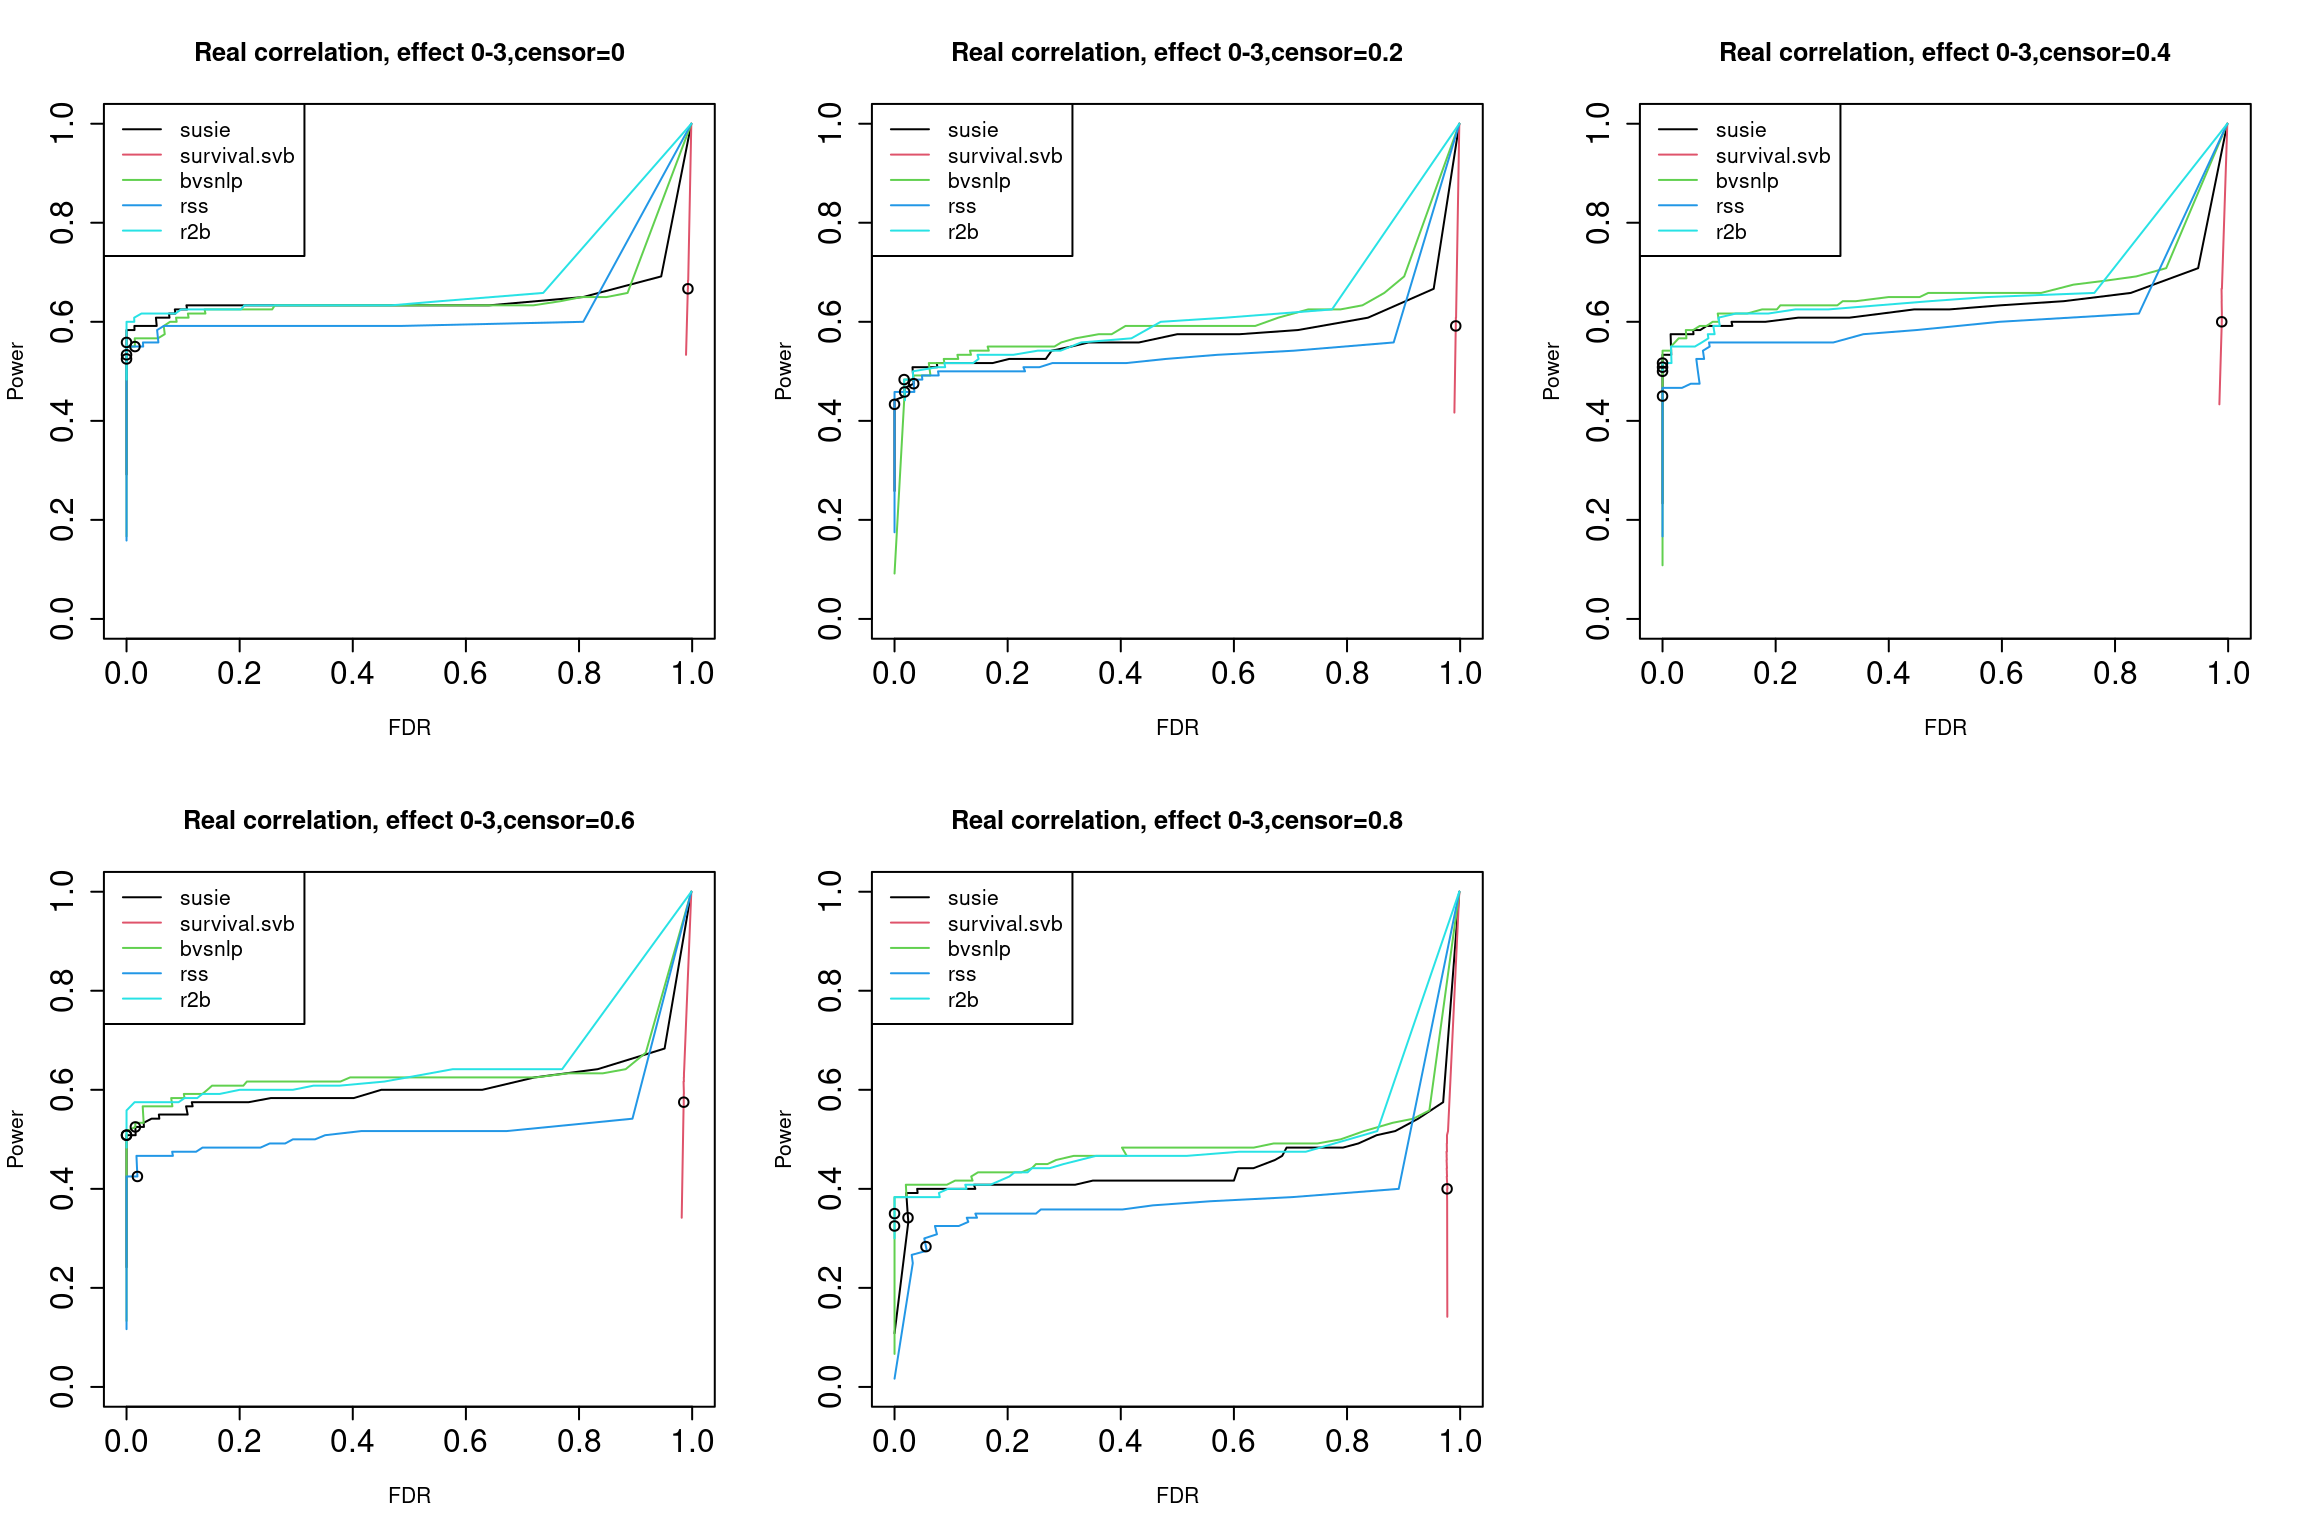
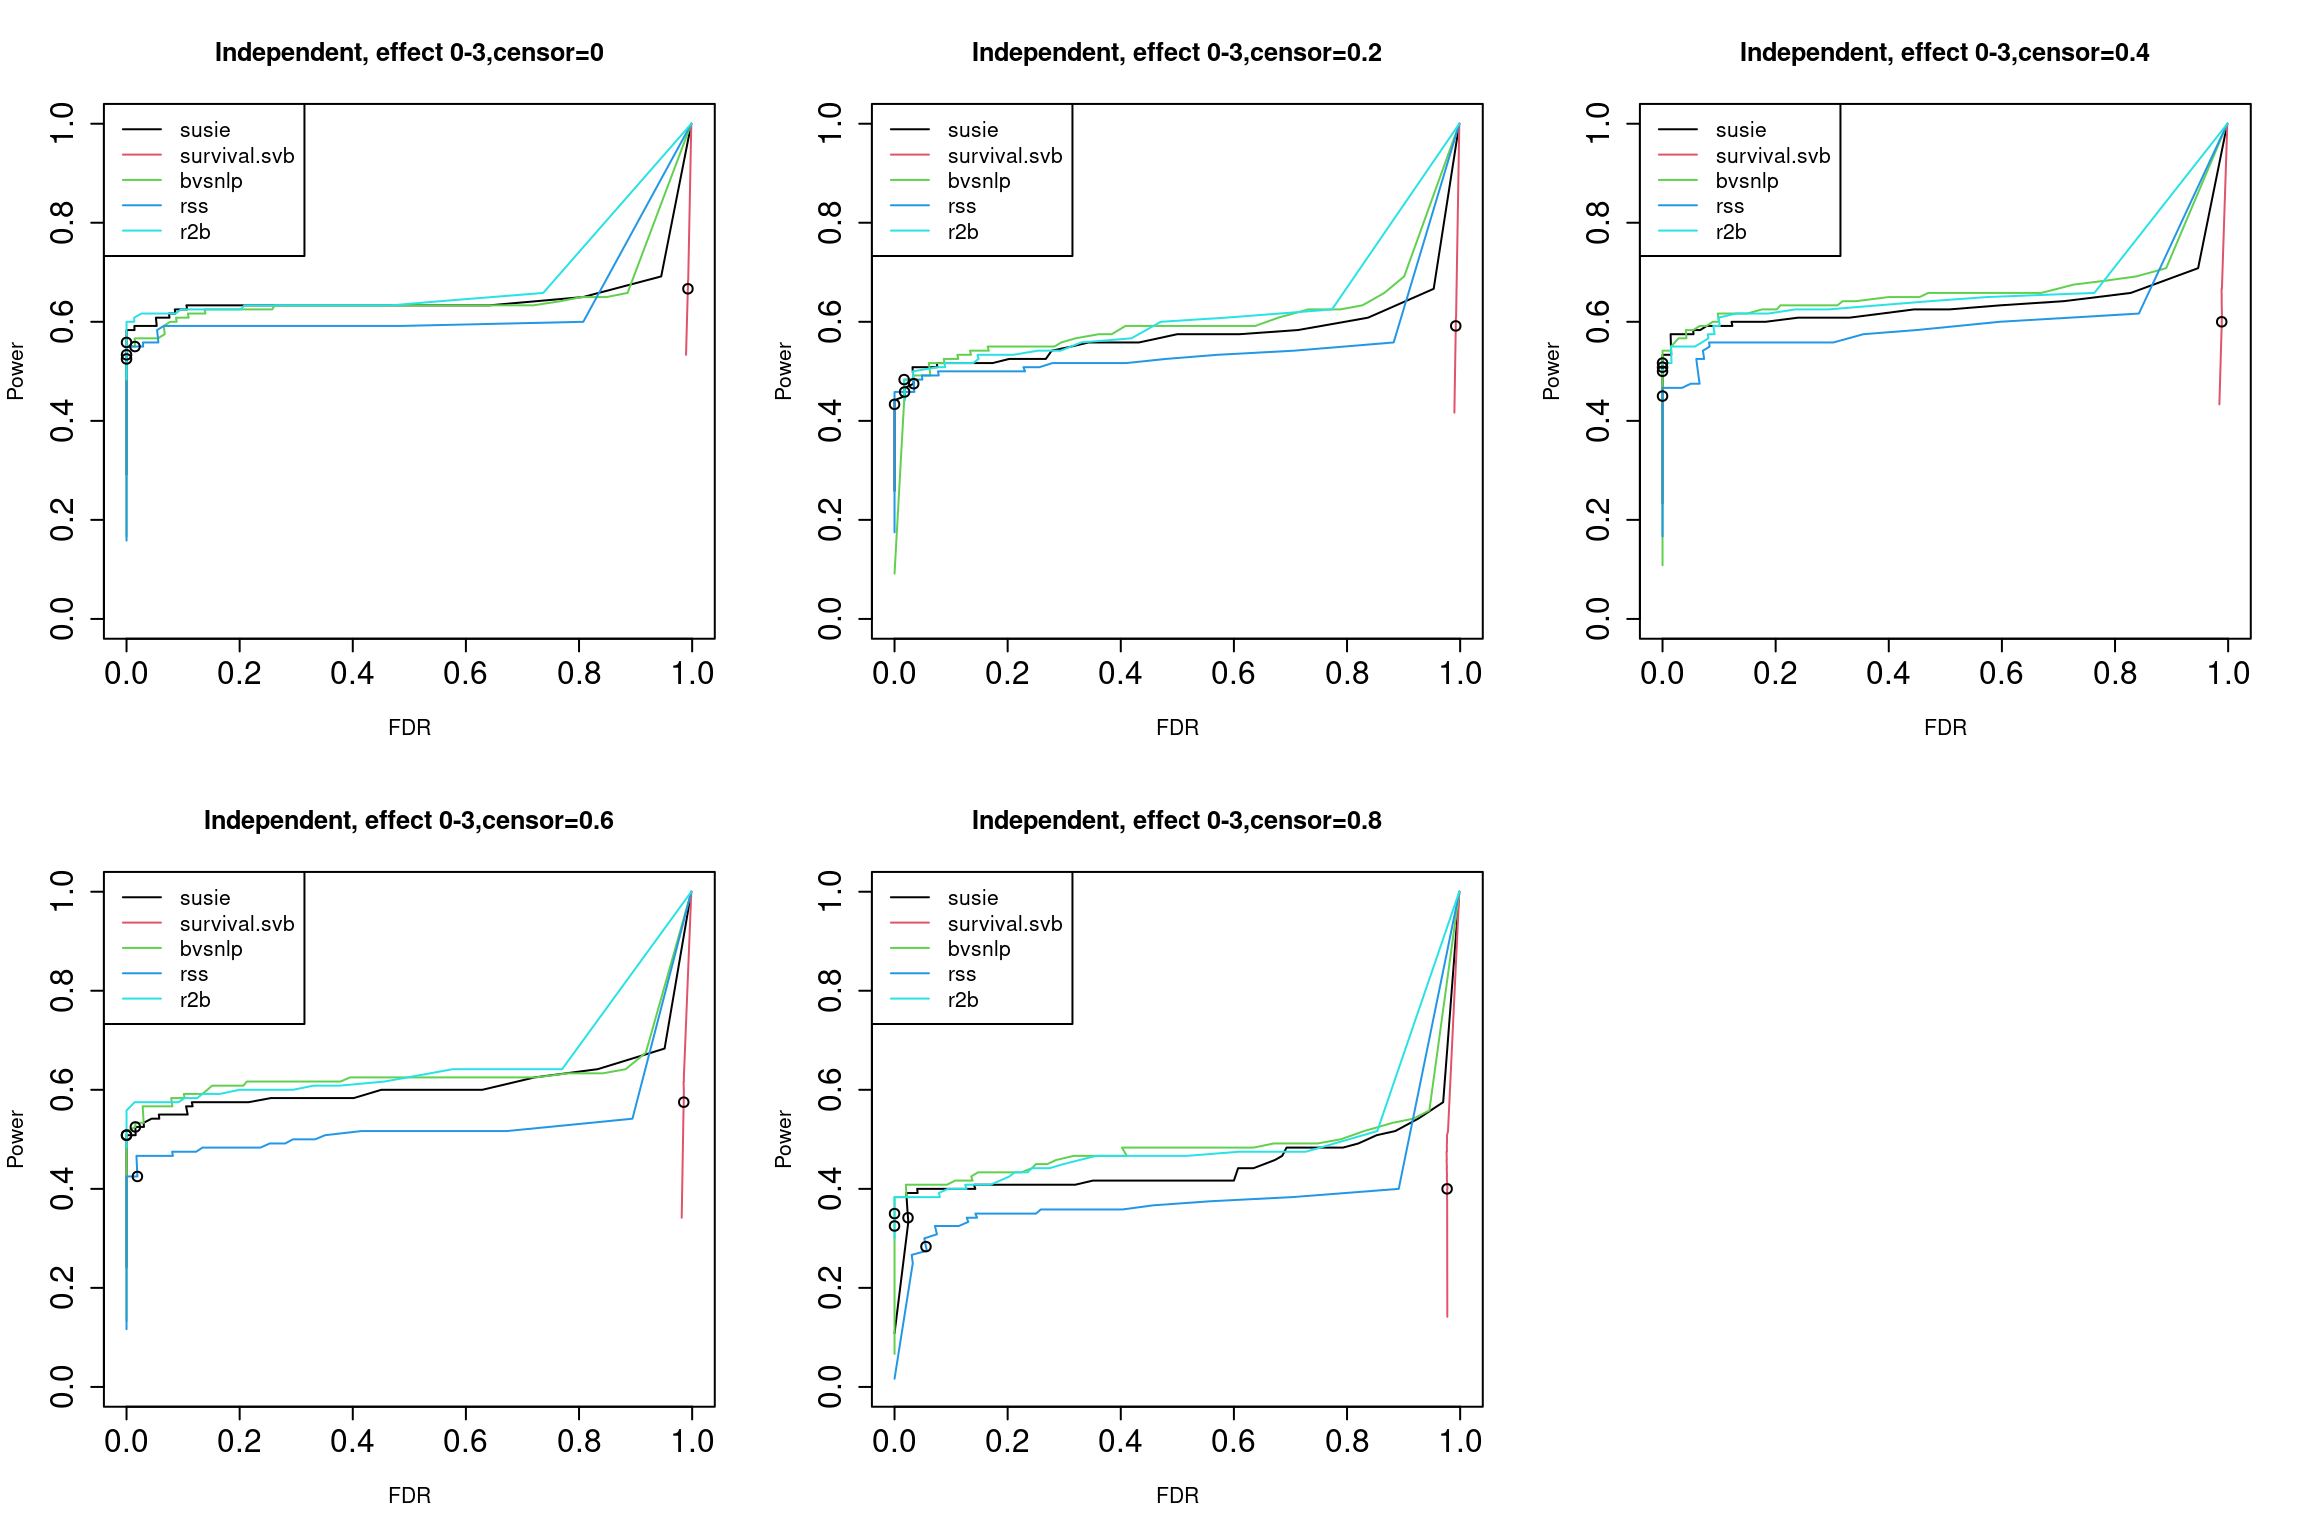
Build site.

diff --git a/docs/gtex_10iter.html b/docs/gtex_10iter.html
@@ -394,7 +394,7 @@ aria-hidden="true"></span> </a>
 <div class="tab-content">
 <div id="summary" class="tab-pane fade in active">
 <p>
-<strong>Last updated:</strong> 2024-03-11
+<strong>Last updated:</strong> 2024-03-18
 </p>
 <p>
 <strong>Checks:</strong> <span
@@ -551,15 +551,15 @@ code/post_summary.R
 <div class="panel panel-default">
 <div class="panel-heading">
 <p class="panel-title">
-<a data-toggle="collapse" data-parent="#workflowr-checks" href="#strongRepositoryversionstrongahrefhttpsgithubcomyunqiyang0215survivalsusietree6ec41c5923041b1ed22e8fa4b26da47935dc6ac2targetblank6ec41c5a">
+<a data-toggle="collapse" data-parent="#workflowr-checks" href="#strongRepositoryversionstrongahrefhttpsgithubcomyunqiyang0215survivalsusietree1f7065849166bbc42b04e088d2686388c37082e8targetblank1f70658a">
 <span class="glyphicon glyphicon-ok text-success"
 aria-hidden="true"></span> <strong>Repository version:</strong>
-<a href="https://github.com/yunqiyang0215/survival-susie/tree/6ec41c5923041b1ed22e8fa4b26da47935dc6ac2" target="_blank">6ec41c5</a>
+<a href="https://github.com/yunqiyang0215/survival-susie/tree/1f7065849166bbc42b04e088d2686388c37082e8" target="_blank">1f70658</a>
 </a>
 </p>
 </div>
 <div
[2 lines of base64/hex data omitted]
 class="panel-collapse collapse">
 <div class="panel-body">
 <p>
@@ -569,7 +569,7 @@ reproducibility.
 </p>
 <p>
 The results in this page were generated with repository version
-<a href="https://github.com/yunqiyang0215/survival-susie/tree/6ec41c5923041b1ed22e8fa4b26da47935dc6ac2" target="_blank">6ec41c5</a>.
+<a href="https://github.com/yunqiyang0215/survival-susie/tree/1f7065849166bbc42b04e088d2686388c37082e8" target="_blank">1f70658</a>.
 See the <em>Past versions</em> tab to see a history of the changes made
 to the R Markdown and HTML files.
 </p>
@@ -633,6 +633,40 @@ Message
 </tr>
 </thead>
 <tbody>
+<tr>
+<td>
+Rmd
+</td>
+<td>
+<a href="https://github.com/yunqiyang0215/survival-susie/blob/1f7065849166bbc42b04e088d2686388c37082e8/analysis/gtex_10iter.Rmd" target="_blank">1f70658</a>
+</td>
+<td>
+yunqi yang
+</td>
+<td>
+2024-03-18
+</td>
+<td>
+wflow_publish("analysis/gtex_10iter.Rmd")
+</td>
+</tr>
+<tr>
+<td>
+html
+</td>
+<td>
+<a href="https://rawcdn.githack.com/yunqiyang0215/survival-susie/948b4d25f402b1cf5a095fc0b09671ed03a816a9/docs/gtex_10iter.html" target="_blank">948b4d2</a>
+</td>
+<td>
+yunqi yang
+</td>
+<td>
+2024-03-11
+</td>
+<td>
+Build site.
+</td>
+</tr>
 <tr>
 <td>
 Rmd
@@ -847,7 +881,7 @@ for (i in 1:5){
   res.r2b = calculate_tpr_vs_fdr(pip.r2b, is_effect, ts)
   
   plot(res.susie[,2], res.susie[,1], type = &quot;l&quot;, xlim = c(0,1), ylim = c(0, 1), xlab = &quot;FDR&quot;, ylab = &quot;Power&quot;,
-       main = paste0(&quot;Real correlation, effect 0-3&quot;, &quot;,censor=&quot;, censor_lvl[i]))
+       main = paste0(&quot;Independent, effect 0-3&quot;, &quot;,censor=&quot;, censor_lvl[i]))
   lines(res.svb[,2], res.svb[,1], type = &quot;l&quot;, col = 2)
   lines(res.bvsnlp[,2], res.bvsnlp[,1], type = &quot;l&quot;, col = 3)
   lines(res.rss[,2], res.rss[,1], type = &quot;l&quot;, col = 4)
